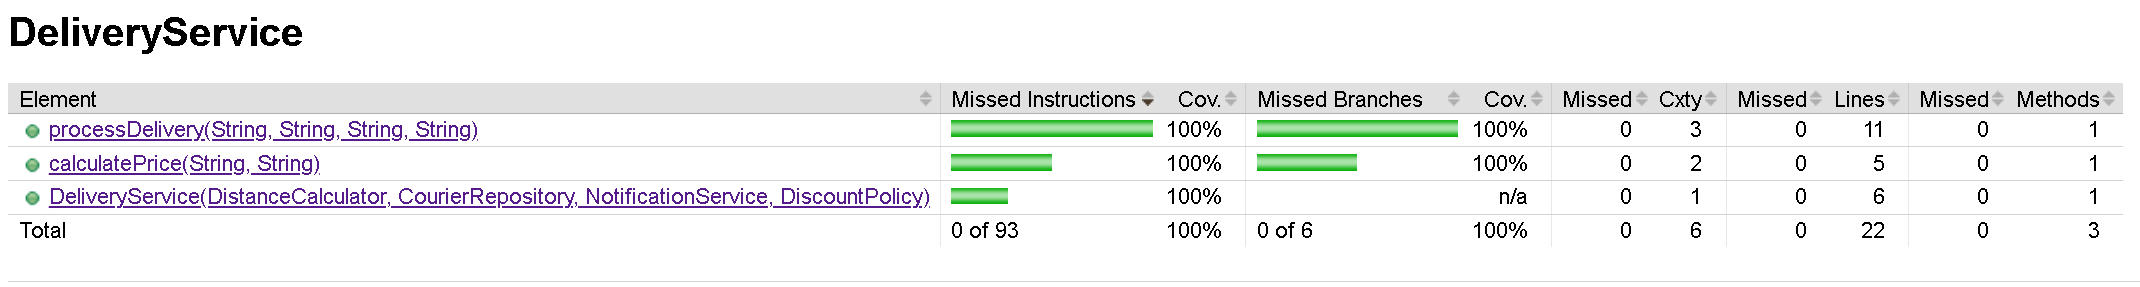
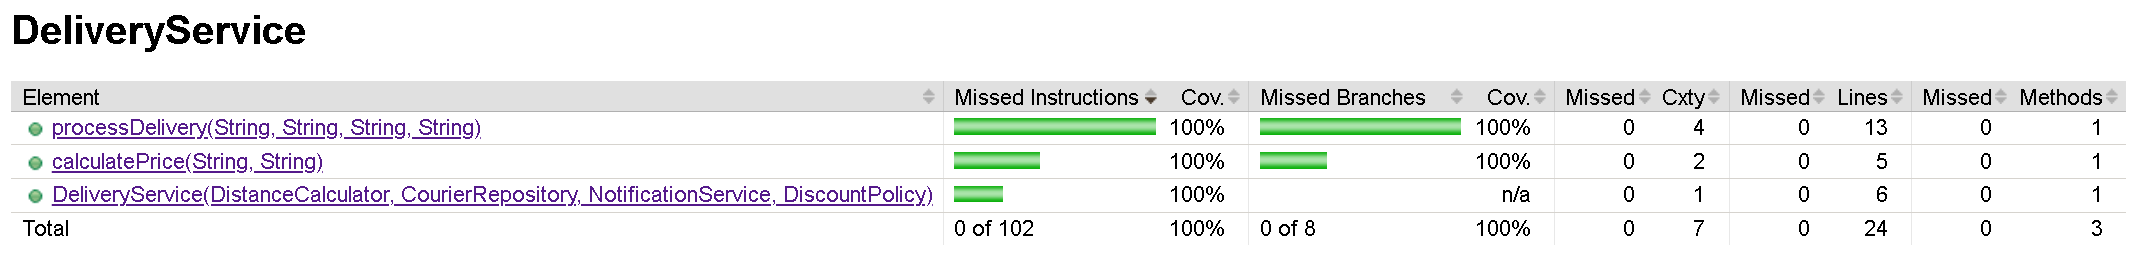
feat: add SMS gateway availability check with Mockito spy doReturn and verify descriptions

diff --git a/src/test/java/com/springfield/delivery/DeliveryServiceTest.java b/src/test/java/com/springfield/delivery/DeliveryServiceTest.java
@@ -89,10 +89,11 @@ class DeliveryServiceTest {
         when(distanceCalculatorMock.calculateDistanceInKm(anyString(), anyString())).thenReturn(5.0);
         when(discountPolicyMock.applyDiscount(anyDouble())).thenReturn(400.0);
         when(courierRepositoryMock.findAvailableCouriers()).thenReturn(List.of(courier));
+        doReturn(true).when(notificationServiceSpy).isSmsGatewayAvailable();
 
         deliveryService.processDelivery(orderId, clientPhone, from, to);
 
-        verify(notificationServiceSpy).sendSms(clientPhone, expectedText);
+        verify(notificationServiceSpy, description("Метод должен отправить смс!")).sendSms(clientPhone, expectedText);
     }
 
     @ParameterizedTest
@@ -102,6 +103,22 @@ class DeliveryServiceTest {
         when(distanceCalculatorMock.calculateDistanceInKm(anyString(), anyString())).thenReturn(5.0);
         when(discountPolicyMock.applyDiscount(anyDouble())).thenReturn(400.0);
         when(courierRepositoryMock.findAvailableCouriers()).thenReturn(List.of(courier));
+        doReturn(true).when(notificationServiceSpy).isSmsGatewayAvailable();
+
+        String expectedCourierName = courier.getName();
+        String actualCourierName = deliveryService.processDelivery(orderId, clientPhone, from, to);
+
+        assertEquals(expectedCourierName, actualCourierName, "Метод должен возвращать имя курьера: " + expectedCourierName);
+    }
+
+    @ParameterizedTest
+    @MethodSource("provideDataForProcessDelivery")
+    void shouldReturnCourierNameWhenSmsGatewayUnavailable(String orderId, String clientPhone,
+                                                          String from, String to, Courier courier, String expectedText) {
+        when(distanceCalculatorMock.calculateDistanceInKm(anyString(), anyString())).thenReturn(5.0);
+        when(discountPolicyMock.applyDiscount(anyDouble())).thenReturn(400.0);
+        when(courierRepositoryMock.findAvailableCouriers()).thenReturn(List.of(courier));
+        doReturn(false).when(notificationServiceSpy).isSmsGatewayAvailable();
 
         String expectedCourierName = courier.getName();
         String actualCourierName = deliveryService.processDelivery(orderId, clientPhone, from, to);
@@ -116,9 +133,24 @@ class DeliveryServiceTest {
         when(distanceCalculatorMock.calculateDistanceInKm(anyString(), anyString())).thenReturn(5.0);
         when(discountPolicyMock.applyDiscount(anyDouble())).thenReturn(400.0);
         when(courierRepositoryMock.findAvailableCouriers()).thenReturn(List.of(courier));
+        doReturn(true).when(notificationServiceSpy).isSmsGatewayAvailable();
 
         deliveryService.processDelivery(orderId, clientPhone, from, to);
 
-        verify(courierRepositoryMock).assignOrderToCourier(courier, orderId);
+        verify(courierRepositoryMock, description("Метод должен назначить заказ " + orderId + " курьеру " + courier.getName()))
+                .assignOrderToCourier(courier, orderId);
+    }
+
+    @Test
+    void shouldSkipSmsSendingWhenGatewayUnavailable() {
+        when(distanceCalculatorMock.calculateDistanceInKm(anyString(), anyString())).thenReturn(5.0);
+        when(discountPolicyMock.applyDiscount(anyDouble())).thenReturn(500.0);
+        when(courierRepositoryMock.findAvailableCouriers()).thenReturn(List.of(new Courier("Барт")));
+        doReturn(false).when(notificationServiceSpy).isSmsGatewayAvailable();
+
+        deliveryService.processDelivery("Test", "88888888888", "Пункт А", "Пункт Б");
+
+        verify(notificationServiceSpy, never().description("При недоступном SMS-шлюзе отправка SMS не должна вызываться!"))
+                .sendSms(anyString(), anyString());
     }
 }

diff --git a/src/main/java/com/springfield/delivery/DeliveryService.java b/src/main/java/com/springfield/delivery/DeliveryService.java
@@ -37,13 +37,20 @@ public class DeliveryService {
         Courier chosenCourier = availableCouriers.get(0);
         courierRepository.assignOrderToCourier(chosenCourier, orderId);
 
-        if ("Пешком".equals(chosenCourier.getTransportType())) {
-            notificationService.sendSms(clientPhone, "К вам выехал курьер " + chosenCourier.getName()
-                    + ". Общая стоимость, руб: " + totalPrice);
+        if (notificationService.isSmsGatewayAvailable()) {
+
+            if ("Пешком".equals(chosenCourier.getTransportType())) {
+                notificationService.sendSms(clientPhone, "К вам выехал курьер " + chosenCourier.getName()
+                        + ". Общая стоимость, руб: " + totalPrice);
+            } else {
+                notificationService.sendSms(clientPhone, "К вам выехал курьер " +
+                        chosenCourier.getName() + " на машине. Доставим молниеносно!" + " Общая стоимость, руб: " + totalPrice);
+            }
+
         } else {
-            notificationService.sendSms(clientPhone, "К вам выехал курьер " +
-                    chosenCourier.getName() + " на машине. Доставим молниеносно!" + " Общая стоимость, руб: " + totalPrice);
+            System.out.println("SMS-шлюз недоступен, уведомление для заказа " + orderId + " отложено");
         }
+
         return chosenCourier.getName();
     }
 }

diff --git a/src/main/java/com/springfield/delivery/NotificationService.java b/src/main/java/com/springfield/delivery/NotificationService.java
@@ -2,6 +2,10 @@ package com.springfield.delivery;
 
 public class NotificationService {
 
+    public boolean isSmsGatewayAvailable() {
+        throw new UnsupportedOperationException("SMS-шлюз не подключен в тестовом окружении!");
+    }
+
     public void sendSms(String phone, String text) {
         System.out.println("Отправлено сообщение '" + text + "' на номер " + phone);
     }

diff --git a/README.md b/README.md
@@ -2,21 +2,22 @@
 [![JaCoCo Coverage](https://img.shields.io/badge/JaCoCo-100%25-brightgreen)](https://leonidgorbunov.github.io/java-unit-testing-delivery-ju5/)
 # Java Unit Testing Delivery Service Project
 
-**Контекст и цели проекта**: разработка изолированных модульных тестов для верификации расчёта стоимости доставки, подбора и назначения курьеров, а также формирования SMS-уведомлений в зависимости от типа транспорта.
+**Контекст и цели проекта**: разработка изолированных модульных тестов для верификации расчёта стоимости доставки, подбора и назначения курьеров, а также условной отправки SMS-уведомлений в зависимости от типа транспорта курьера и доступности внешнего SMS-шлюза.
 
-**ТЗ (вид работ)**: модульное тестирование (Unit Testing), параметризация данных (JUnit 5), Mock- и Spy-изоляция (Mockito), верификация побочных эффектов (`verify`), негативное тестирование и анализ граничных значений (BVA).
+**ТЗ (вид работ)**: модульное тестирование (Unit Testing), параметризация данных (JUnit 5), Mock- и Spy-изоляция (Mockito), частичный стаббинг шпиона (`doReturn().when()`), верификация побочных эффектов (`verify` с `description()`), негативное тестирование и анализ граничных значений.
 
-**Продукт**: Java-модуль сервиса управления доставкой `DeliveryService` (расчёт тарифов с учётом политики скидок, распределение заказов между курьерами и уведомление клиентов).
+**Продукт**: Java-модуль сервиса управления доставкой `DeliveryService` (расчёт тарифов с учётом политики скидок, распределение заказов между курьерами и уведомление клиентов при доступном SMS-шлюзе).
 
 **Выполненные задачи**:
-1. Моделирование и изоляция (`@Mock` и `@Spy`): обеспечена 100% изоляция класса `DeliveryService` от внешних зависимостей (`DistanceCalculator`, `CourierRepository`, `DiscountPolicy`) через генерацию Mock-объектов, а также обёртывание `NotificationService` в Spy-объект для контроля отправки SMS.
-2. Комплексная параметризация (JUnit 5): спроектированы параметризованные наборы тестов через `@CsvSource` и `@MethodSource` для валидации расчёта стоимости доставки, включая проверку граничного нулевого расстояния (`0.0` км), и ветвления логики уведомлений.
-3. Верификация полиморфизма и строковых шаблонов: протестировано поведение метода `processDelivery` для разных типов курьеров (`Courier` и наследник `CarCourier`) с проверкой точного текста SMS-уведомлений.
-4. Контроль побочных эффектов: с помощью `verify()` подтверждена корректность вызова методов назначения заказа курьеру (`assignOrderToCourier`) и отправки сообщения клиенту (`sendSms`).
-5. Негативное тестирование: проверена генерация исключений `IllegalArgumentException` (при отрицательном расстоянии) и `IllegalStateException` (при отсутствии свободных курьеров).
-6. Тестовое покрытие (Code Coverage): достигнуто 100% покрытие целевой бизнес-логики класса `DeliveryService` с помощью плагина JaCoCo.
+1. **Моделирование и изоляция (`@Mock` и `@Spy`):** обеспечена 100% изоляция класса `DeliveryService` от внешних зависимостей (`DistanceCalculator`, `CourierRepository`, `DiscountPolicy`) через генерацию Mock-объектов, а также обёртывание `NotificationService` в Spy-объект для контроля отправки SMS и управления доступностью шлюза.
+2. **Частичное мокирование шпиона (`doReturn().when()`):** реализована подмена метода `NotificationService.isSmsGatewayAvailable()` на объекте `@Spy` без вызова реальной реализации (которая в изолированном окружении выбрасывает `UnsupportedOperationException`), при сохранении реального выполнения `sendSms()`.
+3. **Комплексная параметризация (JUnit 5):** спроектированы параметризованные наборы тестов через `@CsvSource` и `@MethodSource` для валидации расчёта стоимости доставки, включая проверку граничного нулевого расстояния (`0.0` км), и ветвления логики уведомлений.
+4. **Верификация полиморфизма и строковых шаблонов:** протестировано поведение метода `processDelivery` для разных типов курьеров (`Courier` и наследник `CarCourier`) с проверкой точного текста SMS-уведомлений.
+5. **Контроль побочных эффектов (`verify` + `description`):** протестирована корректность вызова методов назначения заказа курьеру (`assignOrderToCourier`), отправки сообщения клиенту (`sendSms`) и отсутствия вызова (`never()`) при недоступном SMS-шлюзе с информативными сообщениями об ошибках.
+6. **Негативное тестирование и устойчивость бизнес-логики:** проверена генерация исключений `IllegalArgumentException` (при отрицательном расстоянии) и `IllegalStateException` (при отсутствии свободных курьеров), а также успешное завершение оформления доставки при недоступном SMS-шлюзе.
+7. **Тестовое покрытие (Code Coverage):** достигнуто 100% покрытие инструкций и веток (`Instructions` и `Branches`) целевой бизнес-логики класса `DeliveryService` с помощью плагина JaCoCo.
 
-**Область тестирования (Scope)**: корректность расчёта стоимости с учётом скидок, обработка исключительных состояний, полиморфная логика выбора шаблона уведомления, верификация вызовов внешних сервисов.
+**Область тестирования (Scope)**: корректность расчёта стоимости с учётом скидок, обработка исключительных состояний, полиморфная логика выбора шаблона уведомления, ветвление при доступности/недоступности SMS-шлюза, верификация вызовов внешних сервисов.
 
 **Окружение**: Java (JDK 11), JUnit 5 (Jupiter 5.11.0), Mockito (5.11.0), Maven, JaCoCo Plugin (0.8.12).
 
@@ -29,27 +30,27 @@
 ```text
 src/
 ├── main/java/com/springfield/delivery/
-│   ├── DeliveryService.java          # Целевой сервис (расчёт стоимости и оформление доставки)
+│   ├── DeliveryService.java          # Целевой сервис (расчёт стоимости, назначение курьера и условная отправка SMS)
 │   ├── DistanceCalculator.java       # Калькулятор расстояний между пунктами (изолирован @Mock)
 │   ├── CourierRepository.java        # Репозиторий поиска и назначения курьеров (изолирован @Mock)
 │   ├── DiscountPolicy.java           # Интерфейс расчёта скидок (изолирован @Mock)
 │   ├── RegularDiscountPolicy.java    # Базовая политика скидок (5%)
 │   ├── VipDiscountPolicy.java        # VIP-политика скидок (15%)
-│   ├── NotificationService.java      # Сервис отправки SMS-уведомлений (обёрнут в @Spy)
+│   ├── NotificationService.java      # Сервис проверки шлюза и отправки SMS (обёрнут в @Spy)
 │   ├── Courier.java                  # Базовая модель пешего курьера
 │   └── CarCourier.java               # Наследник для автокурьера (полиморфизм транспорта)
 └── test/java/com/springfield/delivery/
-    └── DeliveryServiceTest.java      # Набор изолированных модульных тестов (12 запусков)
+    └── DeliveryServiceTest.java      # Набор изолированных модульных тестов (15 запусков)
 ```
 
 ### Ключевые инженерные решения в тестах
 
-* **Комбинирование `@Mock` и `@Spy`:** внешние источники данных и правил (`DistanceCalculator`, `CourierRepository`, `DiscountPolicy`) заменены на стабы/моки (`@Mock`) с предсказуемыми ответами, тогда как `NotificationService` обёрнут в шпиона (`@Spy`) для проверки реального вызова и точного текста отправляемого SMS.
-* **Проверка побочных эффектов (`verify`):** помимо валидации возвращаемых значений (`assertEquals`) и ожидаемых исключений (`assertThrows`), в отдельных тестах контролируется вызов `courierRepository.assignOrderToCourier(courier, orderId)`.
+* **Комбинирование `@Mock` и `@Spy` (`doReturn().when()`):** внешние источники данных и правил (`DistanceCalculator`, `CourierRepository`, `DiscountPolicy`) заменены на моки (`@Mock`), тогда как `NotificationService` обёрнут в шпиона (`@Spy`). Проверка доступности шлюза (`isSmsGatewayAvailable()`) перехватывается через `doReturn(true/false).when(notificationServiceSpy)` без запуска реального метода, а реальный `sendSms()` выполняется и отслеживается через `verify()`.
+* **Атомарность проверок и диагностика (`verify` + `description`):** каждый тест проверяет строго одно поведение или возвращаемое значение, а все вызовы `verify(..., description(...))` и `verify(..., never().description(...))` снабжены поясняющими сообщениями для быстрой локализации сбоев.
 * **Параметризация и полиморфизм:**
-    * `@CsvSource` проверяет расчёт итоговой стоимости доставки для различных маршрутов, включая граничное нулевое расстояние (`0.0` км).
-    * `@MethodSource` обеспечивает сквозной прогон сценариев оформления доставки для базового класса `Courier` и подкласса `CarCourier`.
-* **Точечный отчет `JaCoCo`:** в `pom.xml` настроен фильтр `<include>com/springfield/delivery/DeliveryService.class</include>` на этапе генерации отчёта, чтобы исключить вспомогательные классы-заглушки и отразить фактическое покрытие целевого сервиса (**100%**).
+  * `@CsvSource` проверяет расчёт итоговой стоимости доставки для различных маршрутов, включая граничное нулевое расстояние (`0.0` км).
+  * `@MethodSource` обеспечивает сквозной прогон сценариев оформления доставки для базового класса `Courier` и подкласса `CarCourier`.
+* **Точечный отчёт `JaCoCo`:** в `pom.xml` настроен фильтр `<include>com/springfield/delivery/DeliveryService.class</include>` на этапе генерации отчёта, чтобы исключить вспомогательные классы-заглушки и отразить фактическое 100% покрытие всех инструкций и веток целевого сервиса.
 
 ---
 
@@ -60,9 +61,11 @@ src/
 | `shouldCalculatePriceThrowExceptionWhenCalculateDistanceInKmReturnNegative` | `@Test` | Выброс `IllegalArgumentException` при получении отрицательного расстояния (`-1.0` км) |
 | `shouldCalculatePriceReturnPrice` | `@ParameterizedTest` (`@CsvSource`) | Корректный расчёт итоговой стоимости доставки с учётом тарифа и скидки (4 набора данных, включая границу `0.0` км) |
 | `shouldProcessDeliveryThrowExceptionWhenAvailableCouriersIsEmpty` | `@Test` | Выброс `IllegalStateException` при пустом списке доступных курьеров (`List.of()`) |
-| `shouldProcessDeliverySendNotificationServiceSms` | `@ParameterizedTest` (`@MethodSource`) | Проверка отправки SMS через `@Spy` с разным текстом для пешего курьера (`Courier`) и автокурьера (`CarCourier`) |
-| `shouldProcessDeliveryReturnCourierName` | `@ParameterizedTest` (`@MethodSource`) | Возврат имени первого доступного курьера при успешном оформлении доставки |
-| `shouldProcessDeliveryAssignOrderToCourier` | `@ParameterizedTest` (`@MethodSource`) | Верификация вызова `courierRepository.assignOrderToCourier(courier, orderId)` через `verify()` |
+| `shouldProcessDeliverySendNotificationServiceSms` | `@ParameterizedTest` (`@MethodSource`) | Проверка отправки SMS через `@Spy` (при `isSmsGatewayAvailable() -> true`) с разным текстом для пешего курьера (`Courier`) и автокурьера (`CarCourier`) |
+| `shouldProcessDeliveryReturnCourierName` | `@ParameterizedTest` (`@MethodSource`) | Возврат имени первого доступного курьера при успешном оформлении доставки и доступном SMS-шлюзе |
+| `shouldReturnCourierNameWhenSmsGatewayUnavailable` | `@ParameterizedTest` (`@MethodSource`) | Возврат имени назначенного курьера без блокировки оформления заказа при недоступном SMS-шлюзе (`isSmsGatewayAvailable() -> false`) |
+| `shouldProcessDeliveryAssignOrderToCourier` | `@ParameterizedTest` (`@MethodSource`) | Верификация вызова `courierRepository.assignOrderToCourier(courier, orderId)` через `verify(..., description(...))` |
+| `shouldSkipSmsSendingWhenGatewayUnavailable` | `@Test` | Верификация отсутствия отправки SMS через `verify(..., never().description(...))` при недоступном SMS-шлюзе |
 
 ---
 
